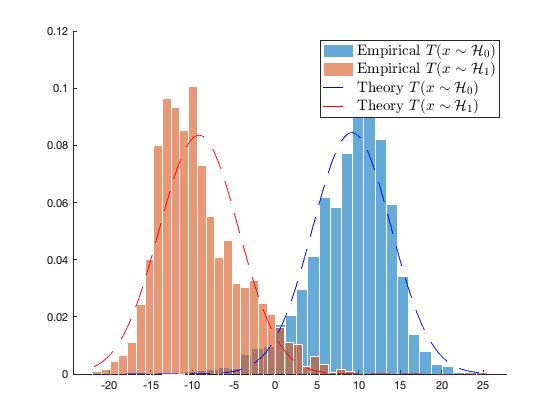
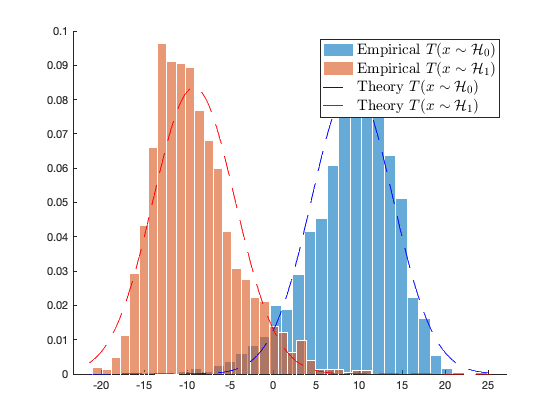
update LDA

diff --git a/3.1/html/LDA.html b/3.1/html/LDA.html
@@ -6,7 +6,7 @@
    <!--
 This HTML was auto-generated from MATLAB code.
 To make changes, update the MATLAB code and republish this document.
-      --><title>Section 3.1.2: Linear discriminant analysis (LDA)</title><meta name="generator" content="MATLAB 9.8"><link rel="schema.DC" href="http://purl.org/dc/elements/1.1/"><meta name="DC.date" content="2021-06-21"><meta name="DC.source" content="LDA.m"><style type="text/css">
+      --><title>Section 3.1.2: Linear discriminant analysis (LDA)</title><meta name="generator" content="MATLAB 9.8"><link rel="schema.DC" href="http://purl.org/dc/elements/1.1/"><meta name="DC.date" content="2023-04-17"><meta name="DC.source" content="LDA.m"><style type="text/css">
 html,body,div,span,applet,object,iframe,h1,h2,h3,h4,h5,h6,p,blockquote,pre,a,abbr,acronym,address,big,cite,code,del,dfn,em,font,img,ins,kbd,q,s,samp,small,strike,strong,sub,sup,tt,var,b,u,i,center,dl,dt,dd,ol,ul,li,fieldset,form,label,legend,table,caption,tbody,tfoot,thead,tr,th,td{margin:0;padding:0;border:0;outline:0;font-size:100%;vertical-align:baseline;background:transparent}body{line-height:1}ol,ul{list-style:none}blockquote,q{quotes:none}blockquote:before,blockquote:after,q:before,q:after{content:'';content:none}:focus{outine:0}ins{text-decoration:none}del{text-decoration:line-through}table{border-collapse:collapse;border-spacing:0}
 
 html { min-height:100%; margin-bottom:1px; }
@@ -237,7 +237,7 @@ R = @(ll,l) cs(ll+1)/cs(l+1)*tmp_S(ll+1,l+1);
 bar_QCQ = @(l) bar_Q*covs(l)*bar_Q + R(0,l)*bar_Q*covs(0)*bar_Q + R(1,l)*bar_Q*covs(1)*bar_Q;
 
 delta_mu = means(0) - means(1);
-theo_mean = @(l) (-1)^l*delta_mu'*bar_Q*delta_mu/2 - g(1)/2 + g(2)/2;
+theo_mean = @(l) (-1)^l*delta_mu'*bar_Q*delta_mu/2 - g(1)/2/cs(1) + g(2)/2/cs(2);
 theo_var = @(l) delta_mu'*bar_QCQ(l)*delta_mu + trace(covs(0)*bar_QCQ(l))/(n*cs(1)) + trace(covs(1)*bar_QCQ(l))/(n*cs(2));
 
 edges = linspace(min([T_store0(:);T_store1(:)])-.5,max([T_store0(:);T_store1(:)])+.5,300);
@@ -475,7 +475,7 @@ R = @(ll,l) cs(ll+1)/cs(l+1)*tmp_S(ll+1,l+1);
 bar_QCQ = @(l) bar_Q*covs(l)*bar_Q + R(0,l)*bar_Q*covs(0)*bar_Q + R(1,l)*bar_Q*covs(1)*bar_Q;
 
 delta_mu = means(0) - means(1);
-theo_mean = @(l) (-1)^l*delta_mu'*bar_Q*delta_mu/2 - g(1)/2 + g(2)/2;
+theo_mean = @(l) (-1)^l*delta_mu'*bar_Q*delta_mu/2 - g(1)/2/cs(1) + g(2)/2/cs(2);
 theo_var = @(l) delta_mu'*bar_QCQ(l)*delta_mu + trace(covs(0)*bar_QCQ(l))/(n*cs(1)) + trace(covs(1)*bar_QCQ(l))/(n*cs(2));
 
 edges = linspace(min([T_store0(:);T_store1(:)])-.5,max([T_store0(:);T_store1(:)])+.5,300);

diff --git a/3.1/LDA.m b/3.1/LDA.m
@@ -175,7 +175,7 @@ R = @(ll,l) cs(ll+1)/cs(l+1)*tmp_S(ll+1,l+1);
 bar_QCQ = @(l) bar_Q*covs(l)*bar_Q + R(0,l)*bar_Q*covs(0)*bar_Q + R(1,l)*bar_Q*covs(1)*bar_Q;
 
 delta_mu = means(0) - means(1);
-theo_mean = @(l) (-1)^l*delta_mu'*bar_Q*delta_mu/2 - g(1)/2 + g(2)/2;
+theo_mean = @(l) (-1)^l*delta_mu'*bar_Q*delta_mu/2 - g(1)/2/cs(1) + g(2)/2/cs(2);
 theo_var = @(l) delta_mu'*bar_QCQ(l)*delta_mu + trace(covs(0)*bar_QCQ(l))/(n*cs(1)) + trace(covs(1)*bar_QCQ(l))/(n*cs(2));
 
 edges = linspace(min([T_store0(:);T_store1(:)])-.5,max([T_store0(:);T_store1(:)])+.5,300);
